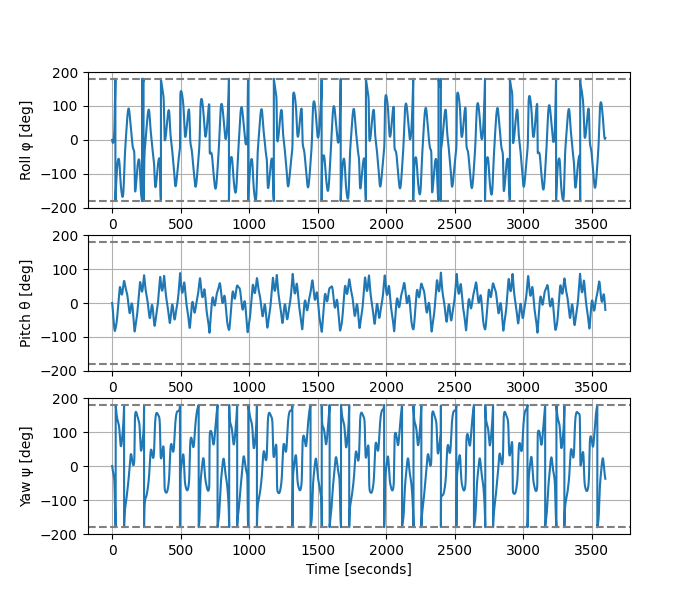
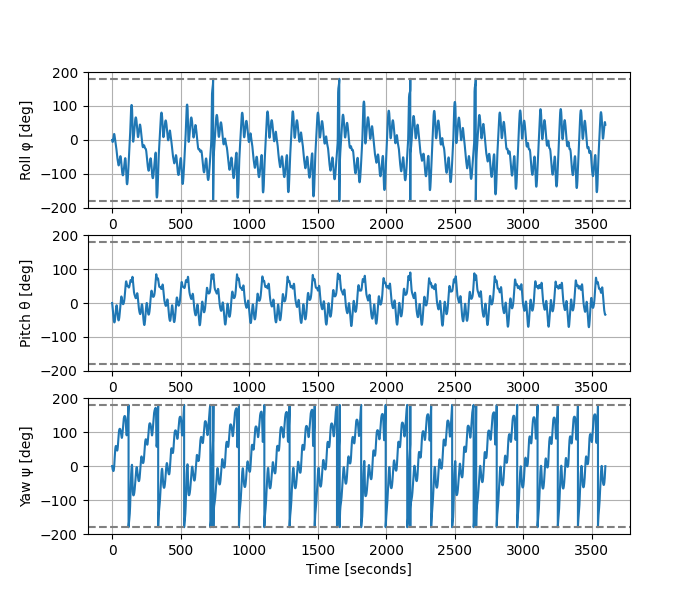
Arbitrary Axis

Changed region(s): [[0.15, 0.66, 0.87, 0.9], [0.15, 0.12, 0.87, 0.33], [0.15, 0.45, 0.87, 0.57]]

diff --git a/ps4_dual_spin_arb_axis.py b/ps4_dual_spin_arb_axis.py
@@ -15,8 +15,13 @@ from numpy.linalg import norm
 
 plt.close("all")
 
+use_wheel = False
+
 # For saving the figures
-file_path = "figures/ps4/PS4-DualSpin-ArmAxis-NoWheel-"
+if use_wheel:
+    file_path = "figures/ps4/PS4-DualSpin-ArmAxis-WithWheel-"
+else:
+    file_path = "figures/ps4/PS4-DualSpin-ArmAxis-NoWheel-"
 
 
 # Initial parameters.
@@ -30,29 +35,35 @@ initial_omegas = omega_magnitude * np.deg2rad( np.ones(3) )
 # The principal inertia tensor of The Nimble Ladybug is...
 initial_inertia = np.diag( [4770.398, 6313.894, 7413.202] )
 
-# Initialize the wheel moment of inertia.
-wheel_density = 4430 # Ti-6Al-4V [kg/m^3]
-wheel_mass = wheel_density * np.pi * 0.4 * 0.4 * 0.1
-wheel_inertia = 0.5 * wheel_mass * 0.4 * 0.4
-wheel_omega = 300 * 2 * np.pi / 60.0
+if use_wheel:
+    # Initialize the wheel moment of inertia.
+    wheel_density = 4430 # Ti-6Al-4V [kg/m^3]
+    wheel_mass = wheel_density * np.pi * 0.4 * 0.4 * 0.1
+    wheel_inertia = 0.5 * wheel_mass * 0.4 * 0.4
+    wheel_omega = 2 * 300 * 2 * np.pi / 60.0
 
-# Constant. Not going to change.
-wheel_momentum_magnitude = wheel_inertia * wheel_omega
-wheel_axis = np.array([-np.cos(np.deg2rad(30)), 
-               np.sin(np.deg2rad(30)) * np.cos(np.deg2rad(45)), 
-               np.sin(np.deg2rad(30)) * np.sin(np.deg2rad(45))])
-wheel_momentum = wheel_momentum_magnitude * wheel_axis
-    
-assert np.isclose(np.linalg.norm(wheel_momentum), wheel_momentum_magnitude)
+    # Constant. Not going to change.
+    wheel_momentum_magnitude = wheel_inertia * wheel_omega
+    wheel_axis = np.array([-np.cos(np.deg2rad(30)), 
+                np.sin(np.deg2rad(30)) * np.cos(np.deg2rad(45)), 
+                np.sin(np.deg2rad(30)) * np.sin(np.deg2rad(45))])
+    wheel_momentum = wheel_momentum_magnitude * wheel_axis
+        
+    assert np.isclose(np.linalg.norm(wheel_momentum), wheel_momentum_magnitude)
 
-wheel_energy = 0.5 * wheel_momentum_magnitude * wheel_omega
+    wheel_energy = 0.5 * wheel_momentum_magnitude * wheel_omega
 
 # The initial attitude is a quaternion aligned to inertial.
 initial_attitude = QTR( dcm = np.identity(3) )
 
 # Initialize simulation time parameters.
-duration, timestep = 3600, 0.005 #0.01
-samples = int(duration / timestep) #+ 1
+duration = 3600
+if use_wheel:
+    timestep = 0.005
+else:
+    timestep = 0.1
+# , timestep = 3600, 0.005 #0.1 #0.005 #0.01
+samples = int(duration / timestep) + 1
 timeAxis = np.linspace(0, duration, samples)
 
 # Three test cases: for each spacecraft, the initial angular
@@ -89,37 +100,38 @@ while now <= duration:
     states_omega[n,:] = np.array([sc.ohmBN[0], sc.ohmBN[1], sc.ohmBN[2]])
     states_angle[n,:] = sc.attBN.get_euler_angles_321()
     
-    # WHEEL CASE
-
-    # Compute the total momentum and energy, make sure it is conserved.
-    # It must be emphasised that component-wise angular momentum is
-    # conserved in the inertial frame. Need to multiply it by the DCM!
-    Iw = sc.inertia @ sc.ohmBN
-    states_momentum[n,:] = sc.attBN.dcm @ (Iw + wheel_momentum)
-    states_energy[n] = 0.5 * np.dot(sc.ohmBN, Iw) + wheel_energy
+    if use_wheel:
+        # WHEEL CASE
+        # Compute the total momentum and energy, make sure it is conserved.
+        # It must be emphasised that component-wise angular momentum is
+        # conserved in the inertial frame. Need to multiply it by the DCM!
+        Iw = sc.inertia @ sc.ohmBN
+        states_momentum[n,:] = sc.attBN.dcm @ (Iw + wheel_momentum)
+        states_energy[n] = 0.5 * np.dot(sc.ohmBN, Iw) + wheel_energy
+        
+        # Propagate the attitude and the angular velocity. Propagate attitude 
+        # with a wheel takes as arguments: dt, torque, IR, ohmR, ohmRDot, vecR
+        sc.propagate_orbit(timestep)
+        sc.propagate_attitude_with_a_wheel(
+            timestep, [0,0,0], wheel_inertia, wheel_omega, 0.0, wheel_axis)
     
-    # Propagate the attitude and the angular velocity. Propagate attitude 
-    # with a wheel takes as arguments: dt, torque, IR, ohmR, ohmRDot, vecR
-    sc.propagate_orbit(timestep)
-    sc.propagate_attitude_with_a_wheel(
-        timestep, [0,0,0], wheel_inertia, wheel_omega, 0.0, wheel_axis)
-    
 
-    # NO WHEEL CASE
-    # Iw = sc.inertia @ sc.ohmBN
-    # states_momentum[n,:] = sc.attBN.dcm @ (Iw + wheel_momentum)
-    # states_energy[n] = 0.5 * np.dot(sc.ohmBN, Iw) + wheel_energy
+    else:
+        # NO WHEEL CASE
+        Iw = sc.inertia @ sc.ohmBN
+        states_momentum[n,:] = sc.attBN.dcm @ Iw
+        states_energy[n] = 0.5 * np.dot(sc.ohmBN, Iw)
 
-    # # Propagate the attitude and the angular velocity. Propagate attitude 
-    # # with a wheel takes as arguments: dt, torque, IR, ohmR, ohmRDot, vecR
-    # sc.propagate_orbit(timestep)
-    # sc.propagate_attitude(timestep, [0,0,0])
+        # Propagate the attitude and the angular velocity. Propagate attitude 
+        # with a wheel takes as arguments: dt, torque, IR, ohmR, ohmRDot, vecR
+        sc.propagate_orbit(timestep)
+        sc.propagate_attitude(timestep, [0,0,0])
 
     now += timestep
     n += 1
 
 print(f"Final n is {n} and final time is {now} seconds.")
-print(f"Expected snampes is {samples}. Expected time is {duration} seconds.")
+print(f"Expected samples is {samples}. Expected time is {duration} seconds.")
 
 # Plot Euler angles.
 fig1, axes1 = plt.subplots(nrows=3, ncols=1, figsize=(7, 6))
